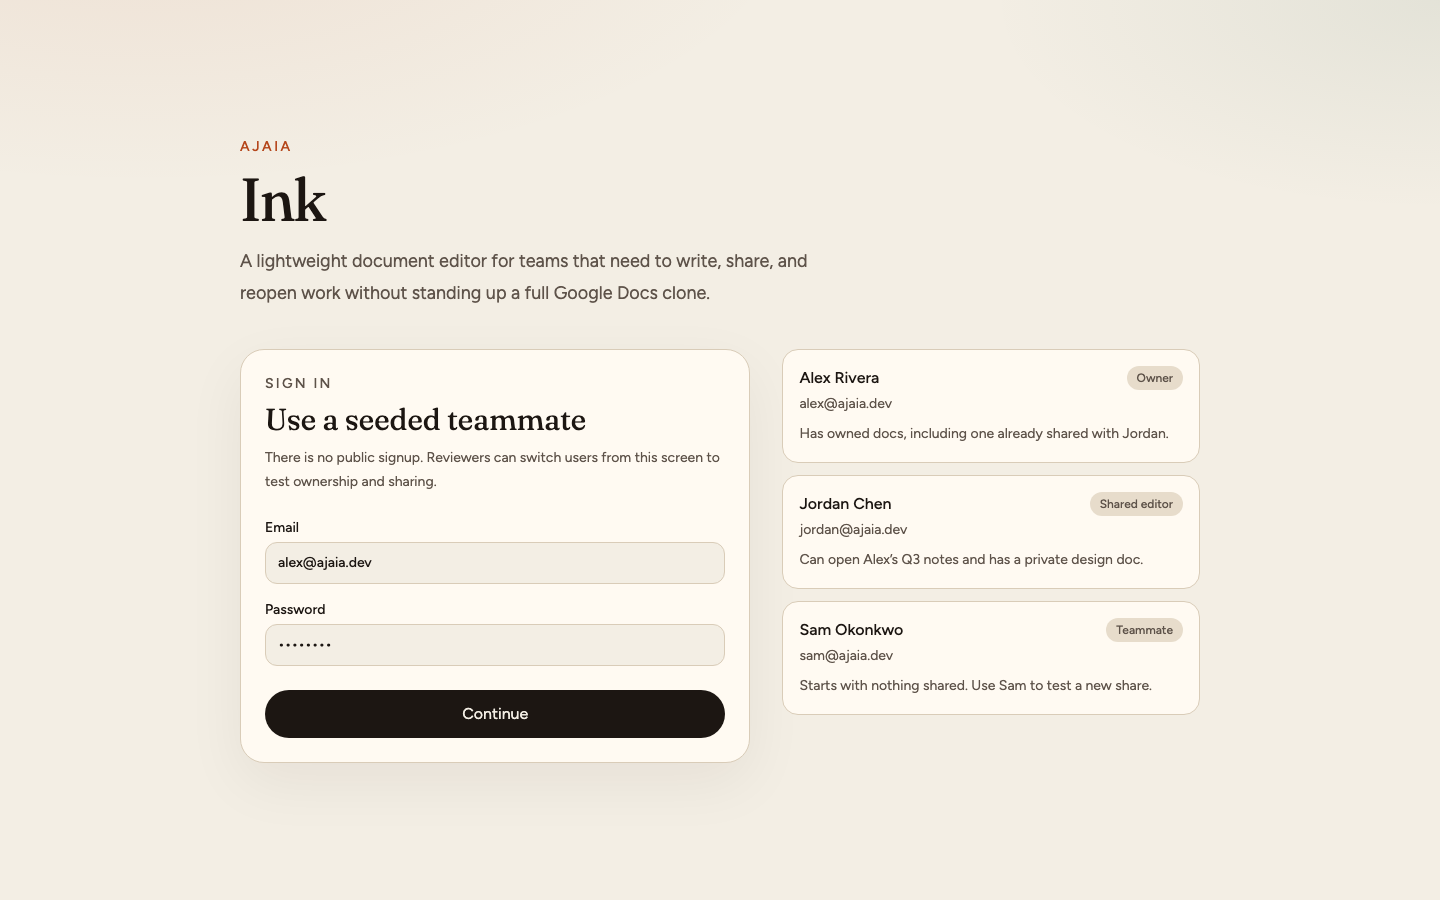
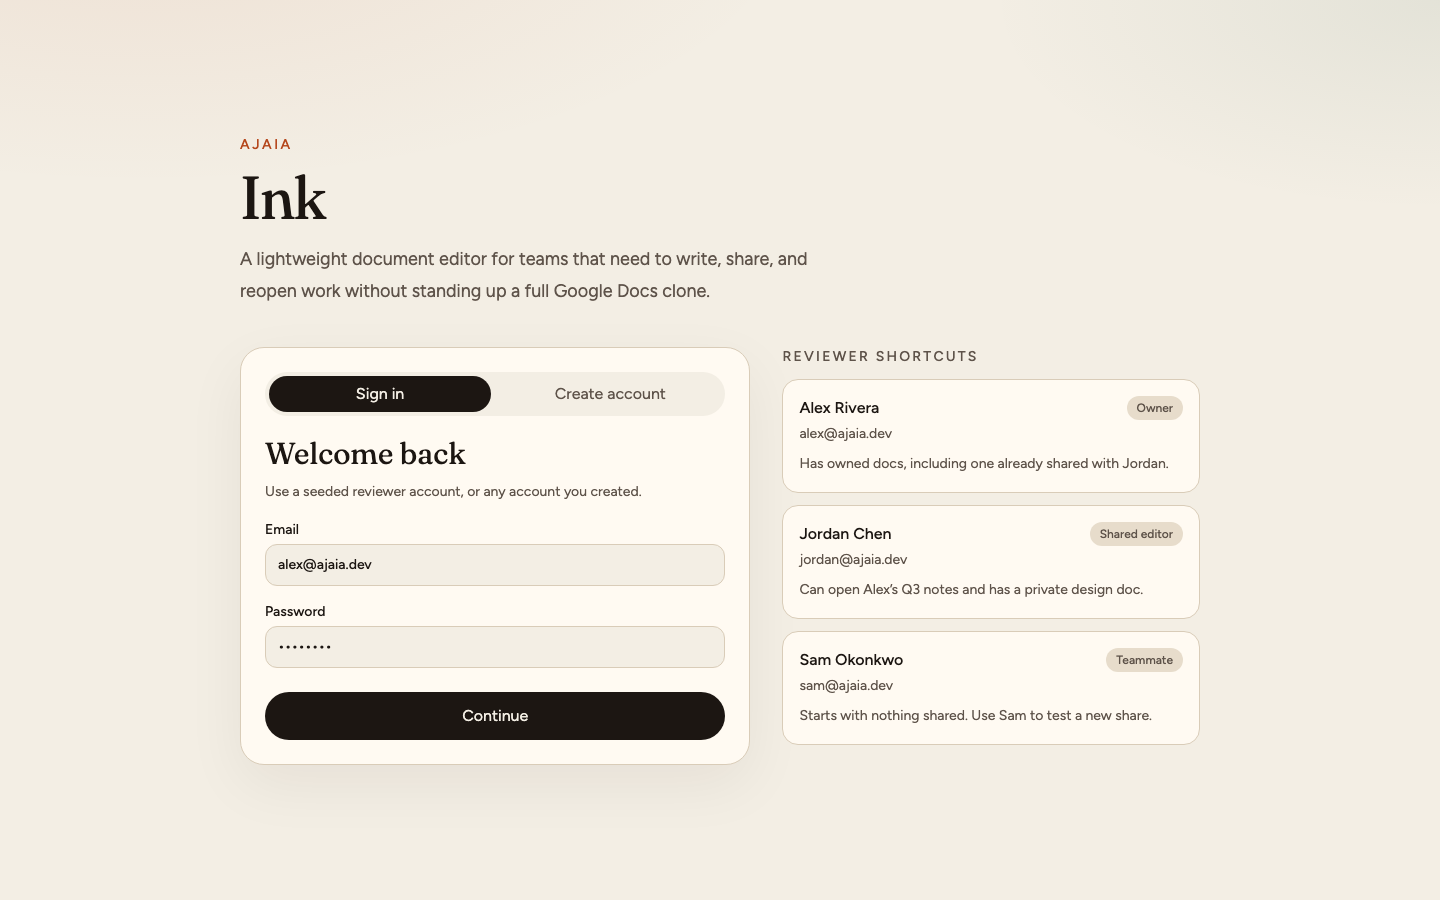
Added the screenshots

diff --git a/SUBMISSION.md b/SUBMISSION.md
@@ -48,16 +48,18 @@ Password: `demo1234`
 
 | File | What it shows |
 | --- | --- |
-| `docs/screenshots/01-sign-in.png` | Seeded sign-in |
-| `docs/screenshots/02-dashboard.png` | Owned vs shared |
-| `docs/screenshots/03-editor.png` | Editor, autosave, toolbar |
-| `docs/screenshots/04-rename.png` | Rename dialog (OK / Cancel) |
-| `docs/screenshots/05-share.png` | Share with Can edit / Can view |
-| `docs/screenshots/06-comments.png` | Comments sidebar |
-| `docs/screenshots/07-history.png` | Version history |
-| `docs/screenshots/08-files.png` | Attach / import into draft |
-| `docs/screenshots/09-export.png` | Markdown and PDF export |
-| `docs/screenshots/10-delete-confirm.png` | In-app delete confirmation |
+| `docs/screenshots/01-sign-in.png` | Sign in + reviewer shortcuts |
+| `docs/screenshots/02-create-account.png` | Create account |
+| `docs/screenshots/03-dashboard.png` | Owned vs shared |
+| `docs/screenshots/04-editor.png` | Editor, Suggest, presence |
+| `docs/screenshots/05-rename.png` | Rename dialog (OK / Cancel) |
+| `docs/screenshots/06-share.png` | Share with Can edit / Can view |
+| `docs/screenshots/07-comments.png` | Comments sidebar |
+| `docs/screenshots/08-suggestions.png` | Suggestion accept / reject |
+| `docs/screenshots/09-history.png` | Version history |
+| `docs/screenshots/10-files.png` | Attach / import into draft |
+| `docs/screenshots/11-export.png` | Markdown and PDF export |
+| `docs/screenshots/12-delete-confirm.png` | In-app delete confirmation |
 
 MongoDB (Docker or a URI in `backend/.env`) is the only extra local setup step. These screenshots are the visual stand-in for that step.
 
